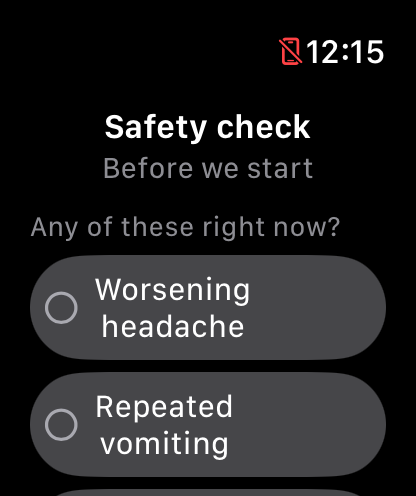
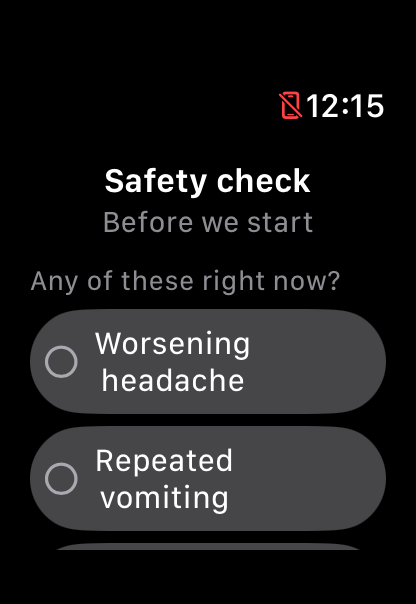
Watch: pre-padded captures (416x604) + object-cover — bulletproof, no letterbox math, button never clipped; fixes the broken all-frames-tiny render (justify-center removed)

diff --git a/components/platform/SstWatchAnimation.tsx b/components/platform/SstWatchAnimation.tsx
@@ -37,12 +37,12 @@ export function SstWatchAnimation() {
         <div className="relative -my-1 rounded-[50px] bg-gradient-to-b from-slate-400 via-slate-600 to-slate-900 p-[4px] shadow-[0_28px_60px_-20px_rgba(0,0,0,.8)]">
           <span className="absolute -right-[6px] top-[60px] h-[28px] w-[8px] rounded-[3px] bg-gradient-to-b from-slate-300 via-slate-500 to-slate-600" />
           <span className="absolute -right-[4px] top-[102px] h-[36px] w-[5px] rounded-[2.5px] bg-gradient-to-b from-slate-500 to-slate-700" />
-          {/* black OLED bezel — the padding insets the capture so its content
-              never touches the rounded corners (this was the clipping bug) */}
-          <div className="rounded-[48px] bg-black p-[9px]">
-            {/* Taller than the 416:496 capture so it letterboxes with black
-                top/bottom (the OLED bezel) — nothing gets cut by the corners. */}
-            <div className="relative flex h-[280px] w-[208px] items-center overflow-hidden rounded-[38px] bg-black">
+          {/* Screen. Captures are pre-padded with black top/bottom margins
+              (416×604), so the viewport just matches that aspect (200×290)
+              with object-cover — the content sits centered with a comfortable
+              black bezel and the rounded corners only ever clip black. */}
+          <div className="rounded-[46px] bg-black p-[7px]">
+            <div className="relative h-[290px] w-[200px] overflow-hidden rounded-[26px] bg-black">
               <div
                 className="flex h-full transition-transform duration-[620ms] ease-[cubic-bezier(0.4,0,0.2,1)]"
                 style={{ width: `${N * 100}%`, transform: `translateX(-${(i * 100) / N}%)` }}
@@ -52,9 +52,9 @@ export function SstWatchAnimation() {
                     <Image
                       src={f.src}
                       alt={`SST Trainer — ${f.label}`}
-                      width={191}
-                      height={228}
-                      className="block h-full w-full object-contain"
+                      width={200}
+                      height={290}
+                      className="block h-full w-full object-cover"
                       priority
                     />
                   </div>
